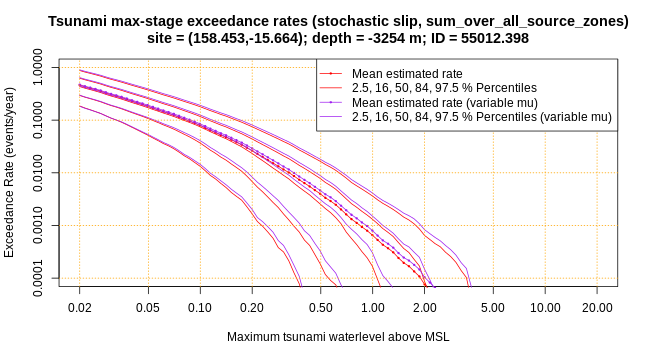
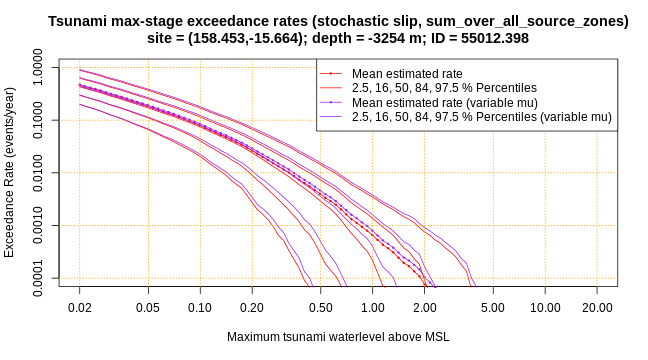
update README

diff --git a/ptha_access/DETAILED_README.md b/ptha_access/DETAILED_README.md
@@ -167,6 +167,25 @@ approx(er_info$stage, er_info$variable_mu_stochastic_slip_rate_median, xout=0.4)
 ```
 
 ```
+## [1] 0.006171845
+```
+
+**Note:** In [this paper](https://doi.org/10.1007/s00024-019-02299-w) we developed a
+new method to compute stage-percentiles, which is considered more rigorous than
+in the original PTHA18 report. By default the above code uses the newer
+results. However you can force it to use the older results like so:
+
+```r
+# Get the exceedance-rate info as in Davies and Grifin (2018)
+# This has all the same data as 'er_info' above, but with slightly different
+# percentile curves. 
+er_info_old = get_stage_exceedance_rate_curve_at_hazard_point(
+    target_point=hazard_point, percentile_version='DG18')
+# Compare this calculation with the one above.
+approx(er_info_old$stage, er_info_old$variable_mu_stochastic_slip_rate_median, xout=0.4)$y
+```
+
+```
 ## [1] 0.005430505
 ```
 
